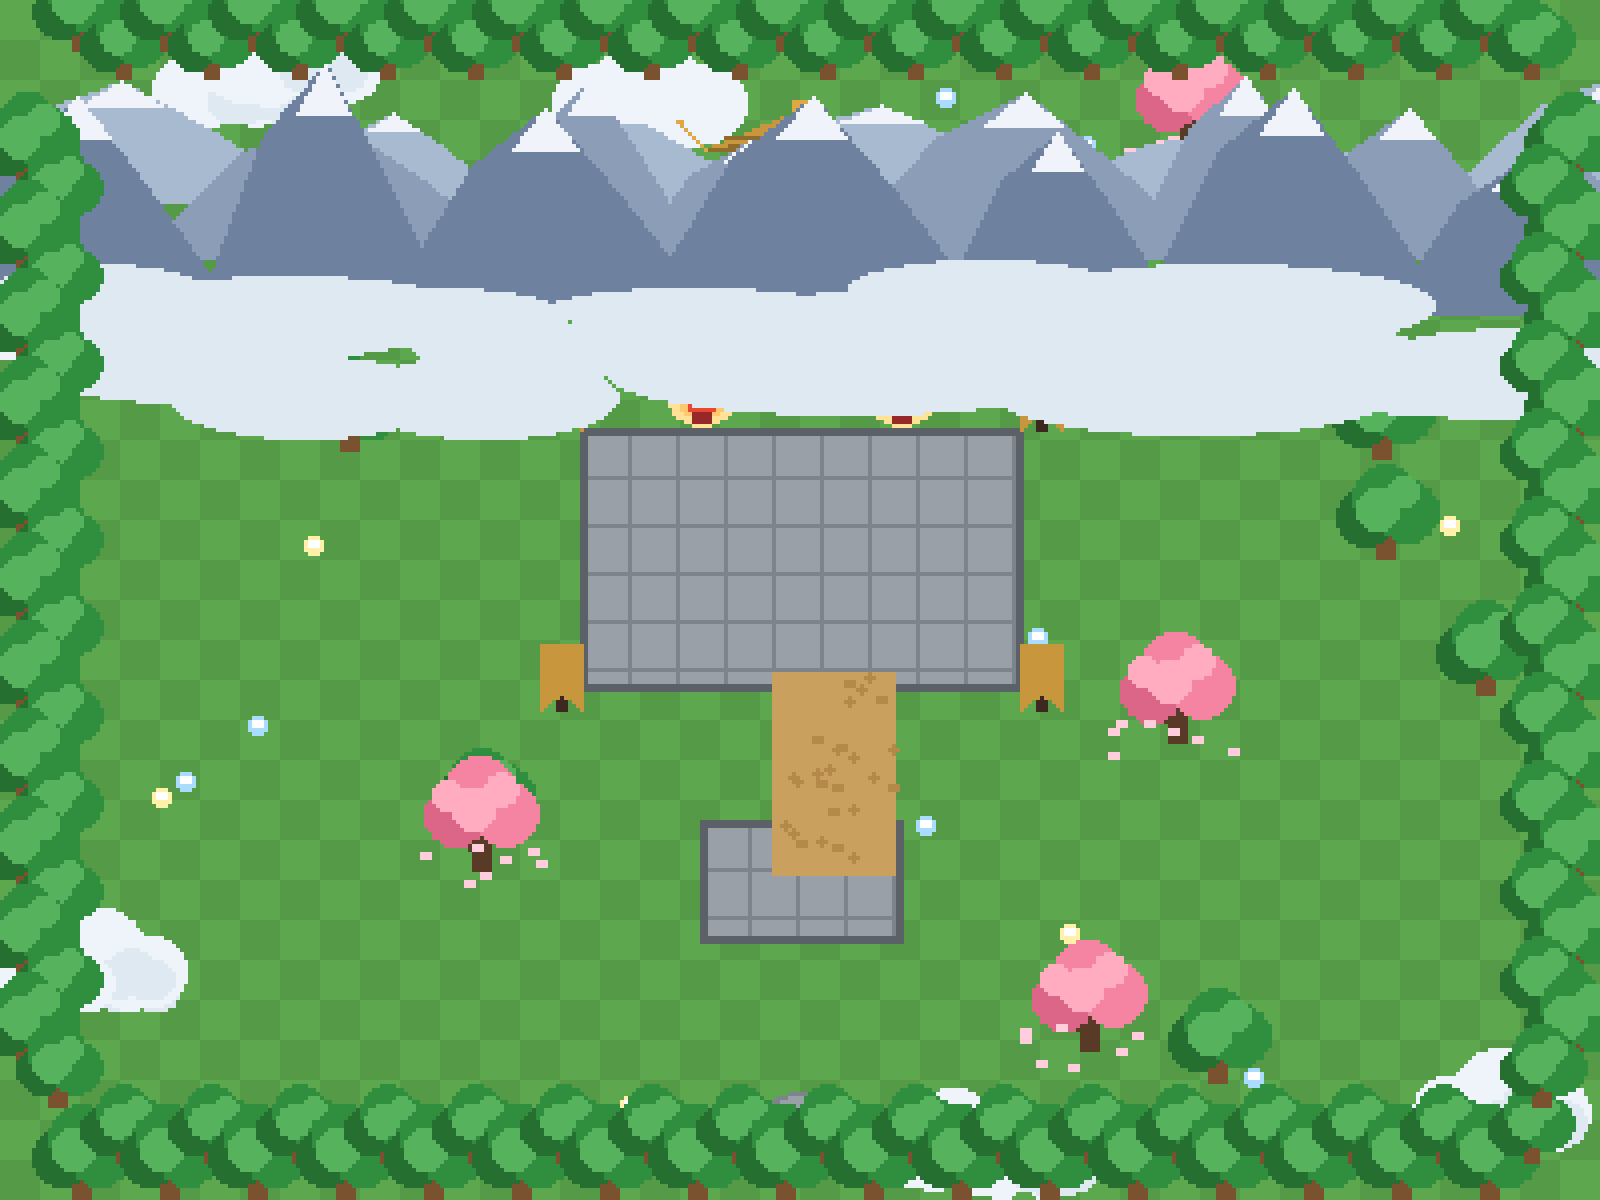
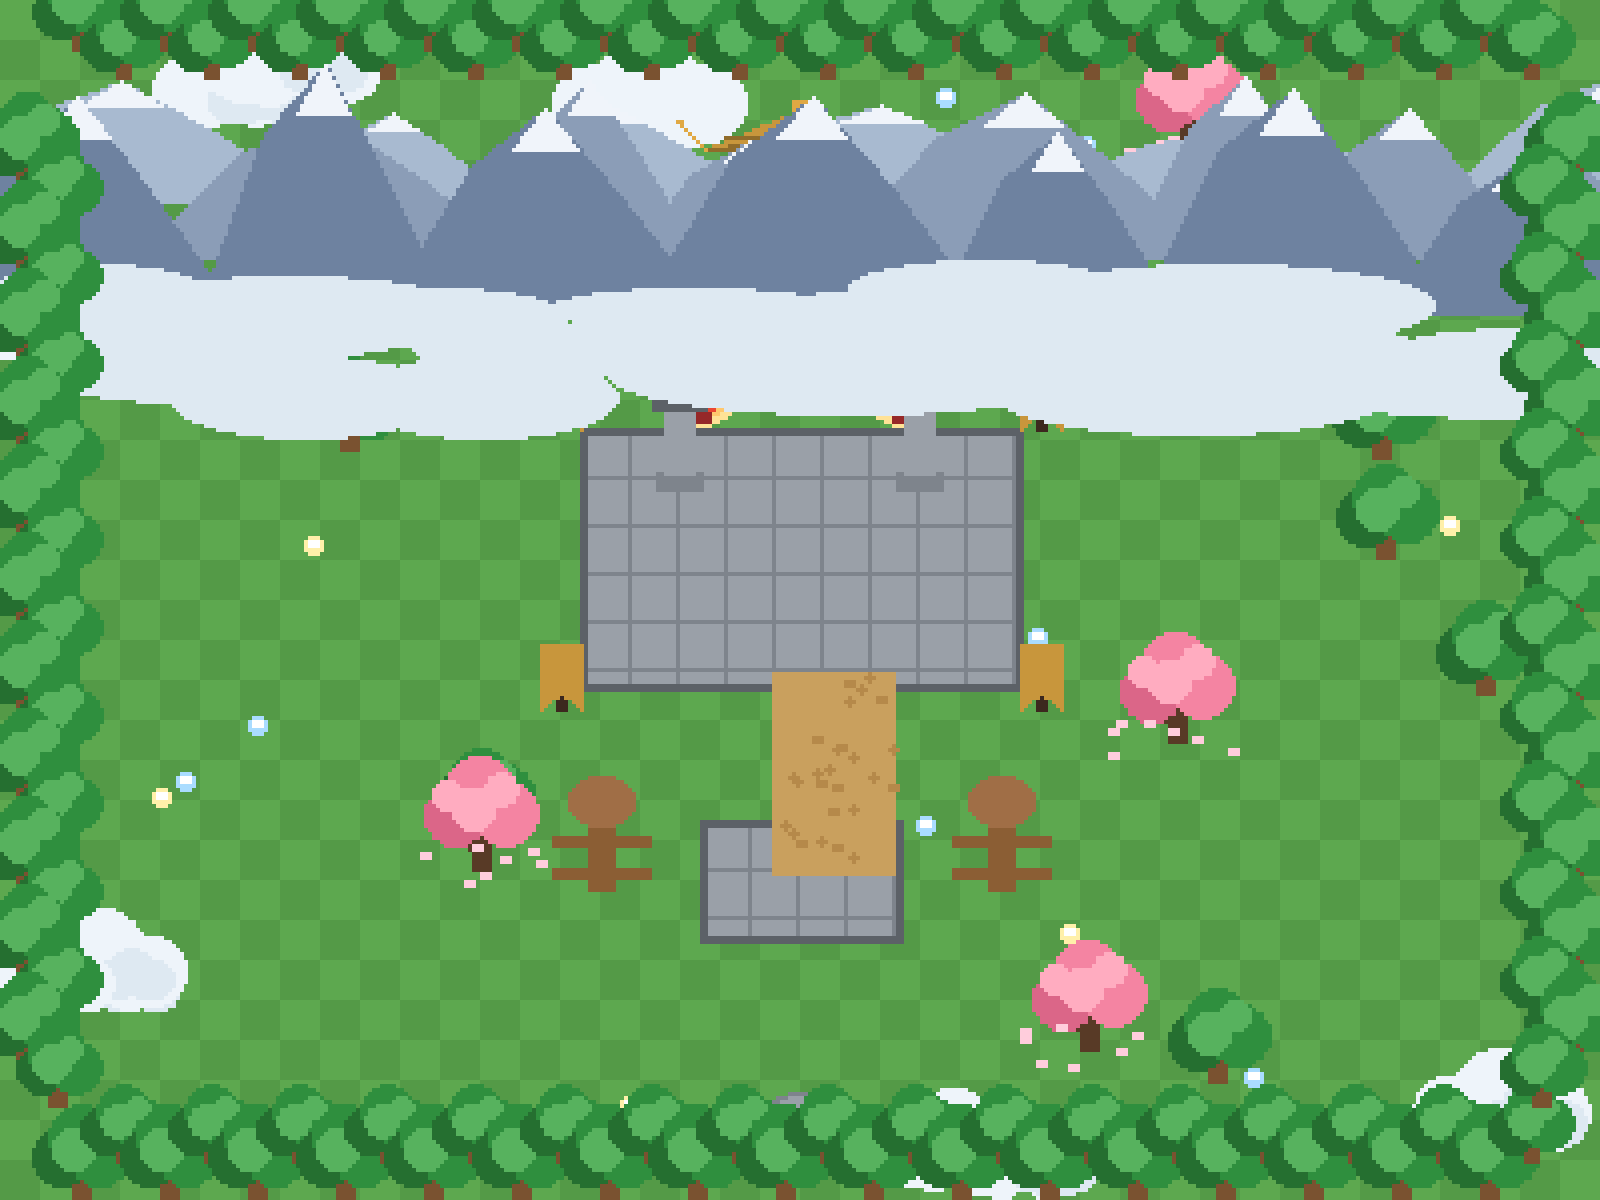
Build 51: doi vi tri NPC 6 tong + trang tri rieng

diff --git a/js/data.js b/js/data.js
@@ -2409,33 +2409,33 @@ const NPCS = {
   an_sy: { nameKey: "npc_an_sy", mapId: 1, x: 1150, y: 380, kind: "greet", img: "assets/sprs/npc_an_sy.png", wander: 70 },
   co_hon: { nameKey: "npc_co_hon", mapId: 11, x: 800, y: 600, kind: "greet", img: "assets/sprs/npc_co_hon.png", wander: 160 },
   dai_phu: { nameKey: "npc_dai_phu", mapId: 0, x: 200, y: 240, kind: "quest", img: "assets/sprs/npc_dai_phu.png" },
-  dan_su: { nameKey: "npc_dan_su", mapId: 8, x: 800, y: 760, kind: "shop", stock: ["dan_hx_tieu", "dan_hx_trung", "dan_hx_dai", "dan_hl_tieu", "dan_hl_trung", "duong_than_dan", "ttd_ha", "ttd_trung", "ttd_thuong", "ttd_cuc", "ttd_tien", "dtd_ha", "dtd_trung", "dtd_thuong", "dtd_cuc", "dtd_tien", "ho_mach_dan"], img: "assets/sprs/npc_dan_su.png" },
-  de_tu_duoc_1: { nameKey: "npc_de_tu_duoc_1", mapId: 8, x: 620, y: 520, kind: "greet", img: "assets/sprs/npc_de_tu_duoc_1.png", wander: 90 },
-  de_tu_duoc_2: { nameKey: "npc_de_tu_duoc_2", mapId: 8, x: 980, y: 520, kind: "greet", img: "assets/sprs/npc_de_tu_duoc_2.png", wander: 90 },
-  de_tu_kiem_1: { nameKey: "npc_de_tu_kiem_1", mapId: 5, x: 620, y: 520, kind: "greet", img: "assets/sprs/npc_de_tu_kiem_1.png", wander: 90 },
-  de_tu_kiem_2: { nameKey: "npc_de_tu_kiem_2", mapId: 5, x: 980, y: 520, kind: "greet", img: "assets/sprs/npc_de_tu_kiem_2.png", wander: 90 },
-  de_tu_ma_1: { nameKey: "npc_de_tu_ma_1", mapId: 10, x: 620, y: 520, kind: "greet", img: "assets/sprs/npc_de_tu_ma_1.png", wander: 90 },
-  de_tu_ma_2: { nameKey: "npc_de_tu_ma_2", mapId: 10, x: 980, y: 520, kind: "greet", img: "assets/sprs/npc_de_tu_ma_2.png", wander: 90 },
-  de_tu_phap_1: { nameKey: "npc_de_tu_phap_1", mapId: 6, x: 620, y: 520, kind: "greet", img: "assets/sprs/npc_de_tu_phap_1.png", wander: 90 },
-  de_tu_phap_2: { nameKey: "npc_de_tu_phap_2", mapId: 6, x: 980, y: 520, kind: "greet", img: "assets/sprs/npc_de_tu_phap_2.png", wander: 90 },
-  de_tu_the_1: { nameKey: "npc_de_tu_the_1", mapId: 7, x: 620, y: 520, kind: "greet", img: "assets/sprs/npc_de_tu_the_1.png", wander: 90 },
-  de_tu_the_2: { nameKey: "npc_de_tu_the_2", mapId: 7, x: 980, y: 520, kind: "greet", img: "assets/sprs/npc_de_tu_the_2.png", wander: 90 },
-  de_tu_thu_1: { nameKey: "npc_de_tu_thu_1", mapId: 9, x: 620, y: 520, kind: "greet", img: "assets/sprs/npc_de_tu_thu_1.png", wander: 90 },
-  de_tu_thu_2: { nameKey: "npc_de_tu_thu_2", mapId: 9, x: 980, y: 520, kind: "greet", img: "assets/sprs/npc_de_tu_thu_2.png", wander: 90 },
+  dan_su: { nameKey: "npc_dan_su", mapId: 8, x: 800, y: 720, kind: "shop", stock: ["dan_hx_tieu", "dan_hx_trung", "dan_hx_dai", "dan_hl_tieu", "dan_hl_trung", "duong_than_dan", "ttd_ha", "ttd_trung", "ttd_thuong", "ttd_cuc", "ttd_tien", "dtd_ha", "dtd_trung", "dtd_thuong", "dtd_cuc", "dtd_tien", "ho_mach_dan"], img: "assets/sprs/npc_dan_su.png" },
+  de_tu_duoc_1: { nameKey: "npc_de_tu_duoc_1", mapId: 8, x: 520, y: 700, kind: "greet", img: "assets/sprs/npc_de_tu_duoc_1.png", wander: 90 },
+  de_tu_duoc_2: { nameKey: "npc_de_tu_duoc_2", mapId: 8, x: 1080, y: 700, kind: "greet", img: "assets/sprs/npc_de_tu_duoc_2.png", wander: 90 },
+  de_tu_kiem_1: { nameKey: "npc_de_tu_kiem_1", mapId: 5, x: 540, y: 560, kind: "greet", img: "assets/sprs/npc_de_tu_kiem_1.png", wander: 90 },
+  de_tu_kiem_2: { nameKey: "npc_de_tu_kiem_2", mapId: 5, x: 1060, y: 560, kind: "greet", img: "assets/sprs/npc_de_tu_kiem_2.png", wander: 90 },
+  de_tu_ma_1: { nameKey: "npc_de_tu_ma_1", mapId: 10, x: 560, y: 560, kind: "greet", img: "assets/sprs/npc_de_tu_ma_1.png", wander: 90 },
+  de_tu_ma_2: { nameKey: "npc_de_tu_ma_2", mapId: 10, x: 1040, y: 560, kind: "greet", img: "assets/sprs/npc_de_tu_ma_2.png", wander: 90 },
+  de_tu_phap_1: { nameKey: "npc_de_tu_phap_1", mapId: 6, x: 680, y: 640, kind: "greet", img: "assets/sprs/npc_de_tu_phap_1.png", wander: 90 },
+  de_tu_phap_2: { nameKey: "npc_de_tu_phap_2", mapId: 6, x: 920, y: 640, kind: "greet", img: "assets/sprs/npc_de_tu_phap_2.png", wander: 90 },
+  de_tu_the_1: { nameKey: "npc_de_tu_the_1", mapId: 7, x: 540, y: 820, kind: "greet", img: "assets/sprs/npc_de_tu_the_1.png", wander: 90 },
+  de_tu_the_2: { nameKey: "npc_de_tu_the_2", mapId: 7, x: 1060, y: 820, kind: "greet", img: "assets/sprs/npc_de_tu_the_2.png", wander: 90 },
+  de_tu_thu_1: { nameKey: "npc_de_tu_thu_1", mapId: 9, x: 580, y: 780, kind: "greet", img: "assets/sprs/npc_de_tu_thu_1.png", wander: 90 },
+  de_tu_thu_2: { nameKey: "npc_de_tu_thu_2", mapId: 9, x: 1020, y: 780, kind: "greet", img: "assets/sprs/npc_de_tu_thu_2.png", wander: 90 },
   huyet_ma_tu: { nameKey: "npc_huyet_ma_tu", mapId: 11, x: 700, y: 500, kind: "quest", img: "assets/sprs/npc_huyet_ma_tu.png" },
   /* NPC nhánh ma đạo (Bui duyệt 2026-10-18): sư phụ U Minh Tôn Giả + Thánh Tử Mặc Vô Tâm */
-  u_minh_ton_gia: { nameKey: "npc_u_minh_ton_gia", mapId: 10, x: 800, y: 400, kind: "quest", img: "assets/sprs/npc_u_minh_ton_gia.png" },
-  mac_vo_tam: { nameKey: "npc_mac_vo_tam", mapId: 10, x: 900, y: 450, kind: "quest", img: "assets/sprs/npc_mac_vo_tam.png" },
+  u_minh_ton_gia: { nameKey: "npc_u_minh_ton_gia", mapId: 10, x: 750, y: 420, kind: "quest", img: "assets/sprs/npc_u_minh_ton_gia.png" },
+  mac_vo_tam: { nameKey: "npc_mac_vo_tam", mapId: 10, x: 880, y: 460, kind: "quest", img: "assets/sprs/npc_mac_vo_tam.png" },
   lao_dan_duong: { nameKey: "npc_lao_dan_duong", mapId: 0, x: 700, y: 150, kind: "dungeon_guide", img: "assets/sprs/npc_lao_dan_duong.png" },
   thu_thap_nhan: { nameKey: "npc_thu_thap_nhan", mapId: 0, x: 780, y: 300, kind: "tower_guide", img: "assets/sprs/npc_thu_thap_nhan.png" },
   lao_nong_dan: { nameKey: "npc_lao_nong_dan", mapId: 3, x: 400, y: 300, kind: "farm", stock: ["hat_linh_chi", "hat_truc_co_thao", "hat_dia_linh_qua"], img: "assets/sprs/npc_lao_nong_dan.png" },
   lao_ren: { nameKey: "npc_lao_ren", mapId: 0, x: 180, y: 980, kind: "forge", stock: ["wpn_phan", "arm_phan", "acc_phan", "wpn_linh", "arm_linh", "acc_linh"], img: "assets/sprs/npc_lao_ren.png" },
-  ma_luyen_su: { nameKey: "npc_ma_luyen_su", mapId: 10, x: 800, y: 760, kind: "forge", stock: ["wpn_phan", "arm_phan", "acc_phan", "wpn_linh", "arm_linh", "acc_linh"], img: "assets/sprs/npc_ma_luyen_su.png" },
+  ma_luyen_su: { nameKey: "npc_ma_luyen_su", mapId: 10, x: 920, y: 780, kind: "forge", stock: ["wpn_phan", "arm_phan", "acc_phan", "wpn_linh", "arm_linh", "acc_linh"], img: "assets/sprs/npc_ma_luyen_su.png" },
   ma_thuong_nhan: { nameKey: "npc_ma_thuong_nhan", mapId: 11, x: 1100, y: 800, kind: "shop", stock: ["pill_hx", "pill_hl", "dan_hx_tieu", "dan_hl_tieu", "ho_the_phu"], img: "assets/sprs/npc_ma_thuong_nhan.png" },
   minh_chu: { nameKey: "npc_minh_chu", mapId: 0, x: 1050, y: 330, kind: "alliance", unlock: {realm: 2}, img: "assets/sprs/npc_minh_chu.png" },
-  phu_su: { nameKey: "npc_phu_su", mapId: 6, x: 800, y: 760, kind: "shop", stock: ["ho_the_phu", "dan_hl_tieu", "dan_hl_trung", "thanh_tam_qua", "duong_than_dan"], img: "assets/sprs/npc_phu_su.png" },
+  phu_su: { nameKey: "npc_phu_su", mapId: 6, x: 920, y: 800, kind: "shop", stock: ["ho_the_phu", "dan_hl_tieu", "dan_hl_trung", "thanh_tam_qua", "duong_than_dan"], img: "assets/sprs/npc_phu_su.png" },
   quan_mo: { nameKey: "npc_quan_mo", mapId: 4, x: 350, y: 350, kind: "shop", stock: ["pill_hx", "pill_hl", "dan_hx_tieu", "dan_hl_tieu", "ho_the_phu"], img: "assets/sprs/npc_quan_mo.png" },
-  ren_su_kiem: { nameKey: "npc_ren_su_kiem", mapId: 5, x: 800, y: 760, kind: "forge", stock: ["wpn_phan", "arm_phan", "acc_phan", "wpn_linh", "arm_linh", "acc_linh"], img: "assets/sprs/npc_ren_su_kiem.png" },
+  ren_su_kiem: { nameKey: "npc_ren_su_kiem", mapId: 5, x: 920, y: 780, kind: "forge", stock: ["wpn_phan", "arm_phan", "acc_phan", "wpn_linh", "arm_linh", "acc_linh"], img: "assets/sprs/npc_ren_su_kiem.png" },
   su_gia_duoc: { nameKey: "npc_su_gia_duoc", mapId: 0, x: 840, y: 440, kind: "sect_emissary", sect: "duoc_vuong_tong", img: "assets/sprs/npc_su_gia_duoc.png" },
   su_gia_kiem: { nameKey: "npc_su_gia_kiem", mapId: 0, x: 600, y: 440, kind: "sect_emissary", sect: "kiem_tong", img: "assets/sprs/npc_su_gia_kiem.png" },
   su_gia_ma: { nameKey: "npc_su_gia_ma", mapId: 0, x: 1000, y: 440, kind: "sect_emissary", sect: "cuu_u_ma_tong", img: "assets/sprs/npc_su_gia_ma.png" },
@@ -2459,17 +2459,17 @@ const NPCS = {
   tiep_dan_su: { nameKey: "npc_tiep_dan_su", mapId: 14, x: 800, y: 1050, kind: "quest", img: "assets/sprs/npc_tiep_dan_su.png" },
   truong_lao_truyen_cong: { nameKey: "npc_truong_lao_truyen_cong", mapId: 14, x: 800, y: 350, kind: "quest", img: "assets/sprs/npc_truong_lao_truyen_cong.png" },
   truong_lao: { nameKey: "npc_truong_lao", mapId: 0, x: 1200, y: 300, kind: "sect", img: "assets/sprs/npc_truong_lao.png" },
-  truong_lao_duoc: { nameKey: "npc_truong_lao_duoc", mapId: 8, x: 800, y: 280, kind: "sect", sect: "duoc_vuong_tong", img: "assets/sprs/npc_truong_lao_duoc.png" },
-  truong_lao_kiem: { nameKey: "npc_truong_lao_kiem", mapId: 5, x: 800, y: 280, kind: "sect", sect: "kiem_tong", img: "assets/sprs/npc_truong_lao_kiem.png" },
-  truong_lao_ma: { nameKey: "npc_truong_lao_ma", mapId: 10, x: 800, y: 280, kind: "sect", sect: "cuu_u_ma_tong", img: "assets/sprs/npc_truong_lao_ma.png" },
-  truong_lao_phap: { nameKey: "npc_truong_lao_phap", mapId: 6, x: 800, y: 280, kind: "sect", sect: "thien_phap_tong", img: "assets/sprs/npc_truong_lao_phap.png" },
-  truong_lao_the: { nameKey: "npc_truong_lao_the", mapId: 7, x: 800, y: 280, kind: "sect", sect: "kim_cang_tong", img: "assets/sprs/npc_truong_lao_the.png" },
-  truong_lao_thu: { nameKey: "npc_truong_lao_thu", mapId: 9, x: 800, y: 280, kind: "sect", sect: "ngu_thu_tong", img: "assets/sprs/npc_truong_lao_thu.png" },
+  truong_lao_duoc: { nameKey: "npc_truong_lao_duoc", mapId: 8, x: 800, y: 320, kind: "sect", sect: "duoc_vuong_tong", img: "assets/sprs/npc_truong_lao_duoc.png" },
+  truong_lao_kiem: { nameKey: "npc_truong_lao_kiem", mapId: 5, x: 800, y: 320, kind: "sect", sect: "kiem_tong", img: "assets/sprs/npc_truong_lao_kiem.png" },
+  truong_lao_ma: { nameKey: "npc_truong_lao_ma", mapId: 10, x: 800, y: 320, kind: "sect", sect: "cuu_u_ma_tong", img: "assets/sprs/npc_truong_lao_ma.png" },
+  truong_lao_phap: { nameKey: "npc_truong_lao_phap", mapId: 6, x: 800, y: 320, kind: "sect", sect: "thien_phap_tong", img: "assets/sprs/npc_truong_lao_phap.png" },
+  truong_lao_the: { nameKey: "npc_truong_lao_the", mapId: 7, x: 800, y: 320, kind: "sect", sect: "kim_cang_tong", img: "assets/sprs/npc_truong_lao_the.png" },
+  truong_lao_thu: { nameKey: "npc_truong_lao_thu", mapId: 9, x: 800, y: 320, kind: "sect", sect: "ngu_thu_tong", img: "assets/sprs/npc_truong_lao_thu.png" },
   truong_tran: { nameKey: "npc_truong_tran", mapId: 0, x: 900, y: 300, kind: "guide", img: "assets/sprs/npc_truong_tran.png" },
-  tuan_thu_phan_da: { nameKey: "npc_tuan_thu_phan_da", mapId: 9, x: 800, y: 760, kind: "pet", unlock: {realm: 2}, img: "assets/sprs/npc_tuan_thu_phan_da.png" },
+  tuan_thu_phan_da: { nameKey: "npc_tuan_thu_phan_da", mapId: 9, x: 700, y: 700, kind: "pet", unlock: {realm: 2}, img: "assets/sprs/npc_tuan_thu_phan_da.png" },
   tuan_thu_su: { nameKey: "npc_tuan_thu_su", mapId: 0, x: 600, y: 880, kind: "pet", unlock: {realm: 2}, img: "assets/sprs/npc_tuan_thu_su.png" },
   van_tien_cac: { nameKey: "npc_van_tien_cac", mapId: 0, x: 330, y: 1030, kind: "shop", img: "assets/sprs/npc_van_tien_cac.png" },
-  vo_tang: { nameKey: "npc_vo_tang", mapId: 7, x: 800, y: 760, kind: "shop", stock: ["kim_cang_dan", "dan_hx_trung", "dan_hx_dai", "ho_the_phu"], img: "assets/sprs/npc_vo_tang.png" },
+  vo_tang: { nameKey: "npc_vo_tang", mapId: 7, x: 800, y: 780, kind: "shop", stock: ["kim_cang_dan", "dan_hx_trung", "dan_hx_dai", "ho_the_phu"], img: "assets/sprs/npc_vo_tang.png" },
 };
 
 /* ============================================================

diff --git a/index.html b/index.html
@@ -11,7 +11,7 @@
 <script>
 /* TT_BUILD: phiên bản build — tăng mỗi lần deploy để tránh cache JS/CSS cũ.
    (Giá trị dùng chung cho toàn trang, khai báo 1 lần duy nhất tại đây.) */
-var TT_BUILD = "20261021-50";
+var TT_BUILD = "20261021-51";
 </script>
 <script>document.write('<link rel="stylesheet" href="css/style.css?v=' + TT_BUILD + '">');</script>
 <script>document.write('<link rel="stylesheet" href="css/hud-tutien2d.css?v=' + TT_BUILD + '">');</script>
